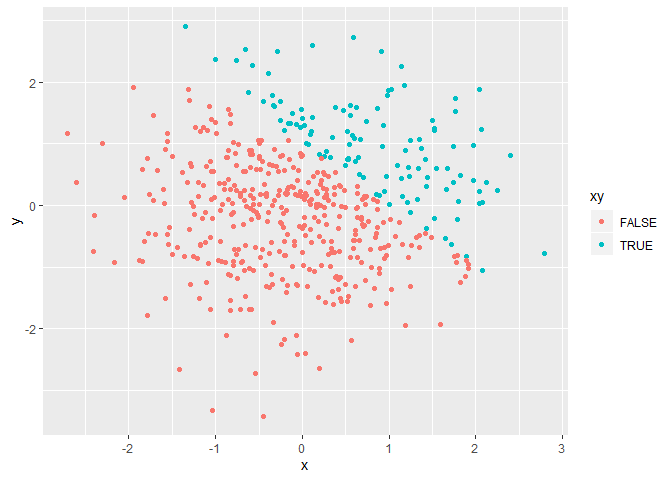
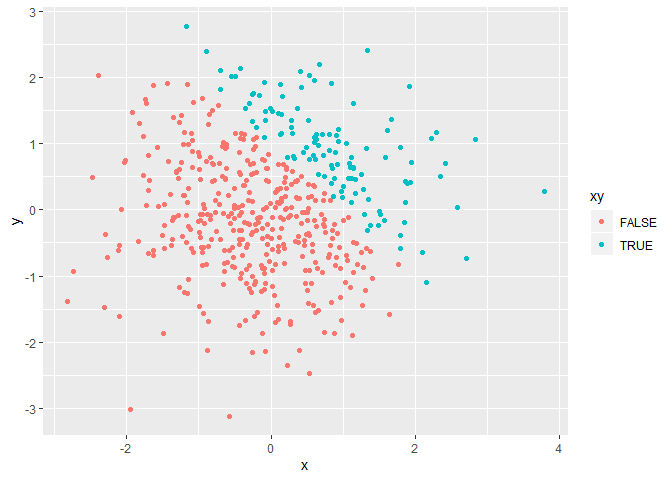
Final saving of scatter plot

diff --git a/p8105_hw1_cg3112.md b/p8105_hw1_cg3112.md
@@ -21,14 +21,14 @@ plot_df
     ## # A tibble: 8 x 4
     ##         a b     c        e    
     ##     <dbl> <lgl> <chr>    <fct>
-    ## 1  0.107  TRUE  EasyPeez I    
-    ## 2 -2.28   FALSE EasyPeez II   
-    ## 3 -0.859  FALSE EasyPeez III  
-    ## 4  0.679  TRUE  EasyPeez I    
-    ## 5  0.0690 TRUE  EasyPeez II   
-    ## 6  0.653  TRUE  EasyPeez I    
-    ## 7  1.01   TRUE  EasyPeez II   
-    ## 8  0.0271 TRUE  EasyPeez III
+    ## 1 -0.192  FALSE EasyPeez I    
+    ## 2  0.600  TRUE  EasyPeez II   
+    ## 3  0.837  TRUE  EasyPeez III  
+    ## 4  0.0587 TRUE  EasyPeez I    
+    ## 5  0.820  TRUE  EasyPeez II   
+    ## 6  1.38   TRUE  EasyPeez I    
+    ## 7  1.09   TRUE  EasyPeez II   
+    ## 8 -0.822  FALSE EasyPeez III
 
 ``` r
 mean(plot_df)
@@ -53,16 +53,16 @@ mutate(plot_df,
 ```
 
     ## # A tibble: 8 x 10
-    ##         a b     c        e     b_numb  f_new b_fact g_new b_numb2   h_new
-    ##     <dbl> <lgl> <chr>    <fct>  <dbl>  <dbl> <fct>  <lgl>   <dbl>   <dbl>
-    ## 1  0.107  TRUE  EasyPeez I          1 0.107  TRUE   NA          2  0.214 
-    ## 2 -2.28   FALSE EasyPeez II         0 0      FALSE  NA          1 -2.28  
-    ## 3 -0.859  FALSE EasyPeez III        0 0      FALSE  NA          1 -0.859 
-    ## 4  0.679  TRUE  EasyPeez I          1 0.679  TRUE   NA          2  1.36  
-    ## 5  0.0690 TRUE  EasyPeez II         1 0.0690 TRUE   NA          2  0.138 
-    ## 6  0.653  TRUE  EasyPeez I          1 0.653  TRUE   NA          2  1.31  
-    ## 7  1.01   TRUE  EasyPeez II         1 1.01   TRUE   NA          2  2.03  
-    ## 8  0.0271 TRUE  EasyPeez III        1 0.0271 TRUE   NA          2  0.0542
+    ##         a b     c        e     b_numb  f_new b_fact g_new b_numb2  h_new
+    ##     <dbl> <lgl> <chr>    <fct>  <dbl>  <dbl> <fct>  <lgl>   <dbl>  <dbl>
+    ## 1 -0.192  FALSE EasyPeez I          0 0      FALSE  NA          1 -0.192
+    ## 2  0.600  TRUE  EasyPeez II         1 0.600  TRUE   NA          2  1.20 
+    ## 3  0.837  TRUE  EasyPeez III        1 0.837  TRUE   NA          2  1.67 
+    ## 4  0.0587 TRUE  EasyPeez I          1 0.0587 TRUE   NA          2  0.117
+    ## 5  0.820  TRUE  EasyPeez II         1 0.820  TRUE   NA          2  1.64 
+    ## 6  1.38   TRUE  EasyPeez I          1 1.38   TRUE   NA          2  2.77 
+    ## 7  1.09   TRUE  EasyPeez II         1 1.09   TRUE   NA          2  2.19 
+    ## 8 -0.822  FALSE EasyPeez III        0 0      FALSE  NA          1 -0.822
 
 Creating a data frame (Problem 2)
 =================================
@@ -77,7 +77,7 @@ plot_df2 = tibble(
 )
 ```
 
-This tibble has 500 rows and 5 columns. The vector x also has a mean of -0.0015007, a median of -0.0198587, and a standard deviation of 0.96517. The proportion of cases where x + y &gt; 1 is 0.23.
+This tibble has 500 rows and 5 columns. The vector x also has a mean of -0.0443288, a median of -0.0629801, and a standard deviation of 0.9831337. The proportion of cases where x + y &gt; 1 is 0.234.
 
 Creating Scatterplots of the Tibble data (End of Problem 2)
 ===========================================================
@@ -90,6 +90,7 @@ Creating Scatterplots of the Tibble data (End of Problem 2)
 ![](p8105_hw1_cg3112_files/figure-markdown_github/unnamed-chunk-5-1.png)
 
 ``` r
+ ggsave("scatter_plot1.pdf", height = 4, width = 6)
 #Plot 2 (numeric)
 #Here, the scale is based off the number range from 0-1, but we only have a value of 0 or 1.
  ggplot(data = plot_df2, mapping = aes(x, y, color = xy_numb)) + geom_point()
